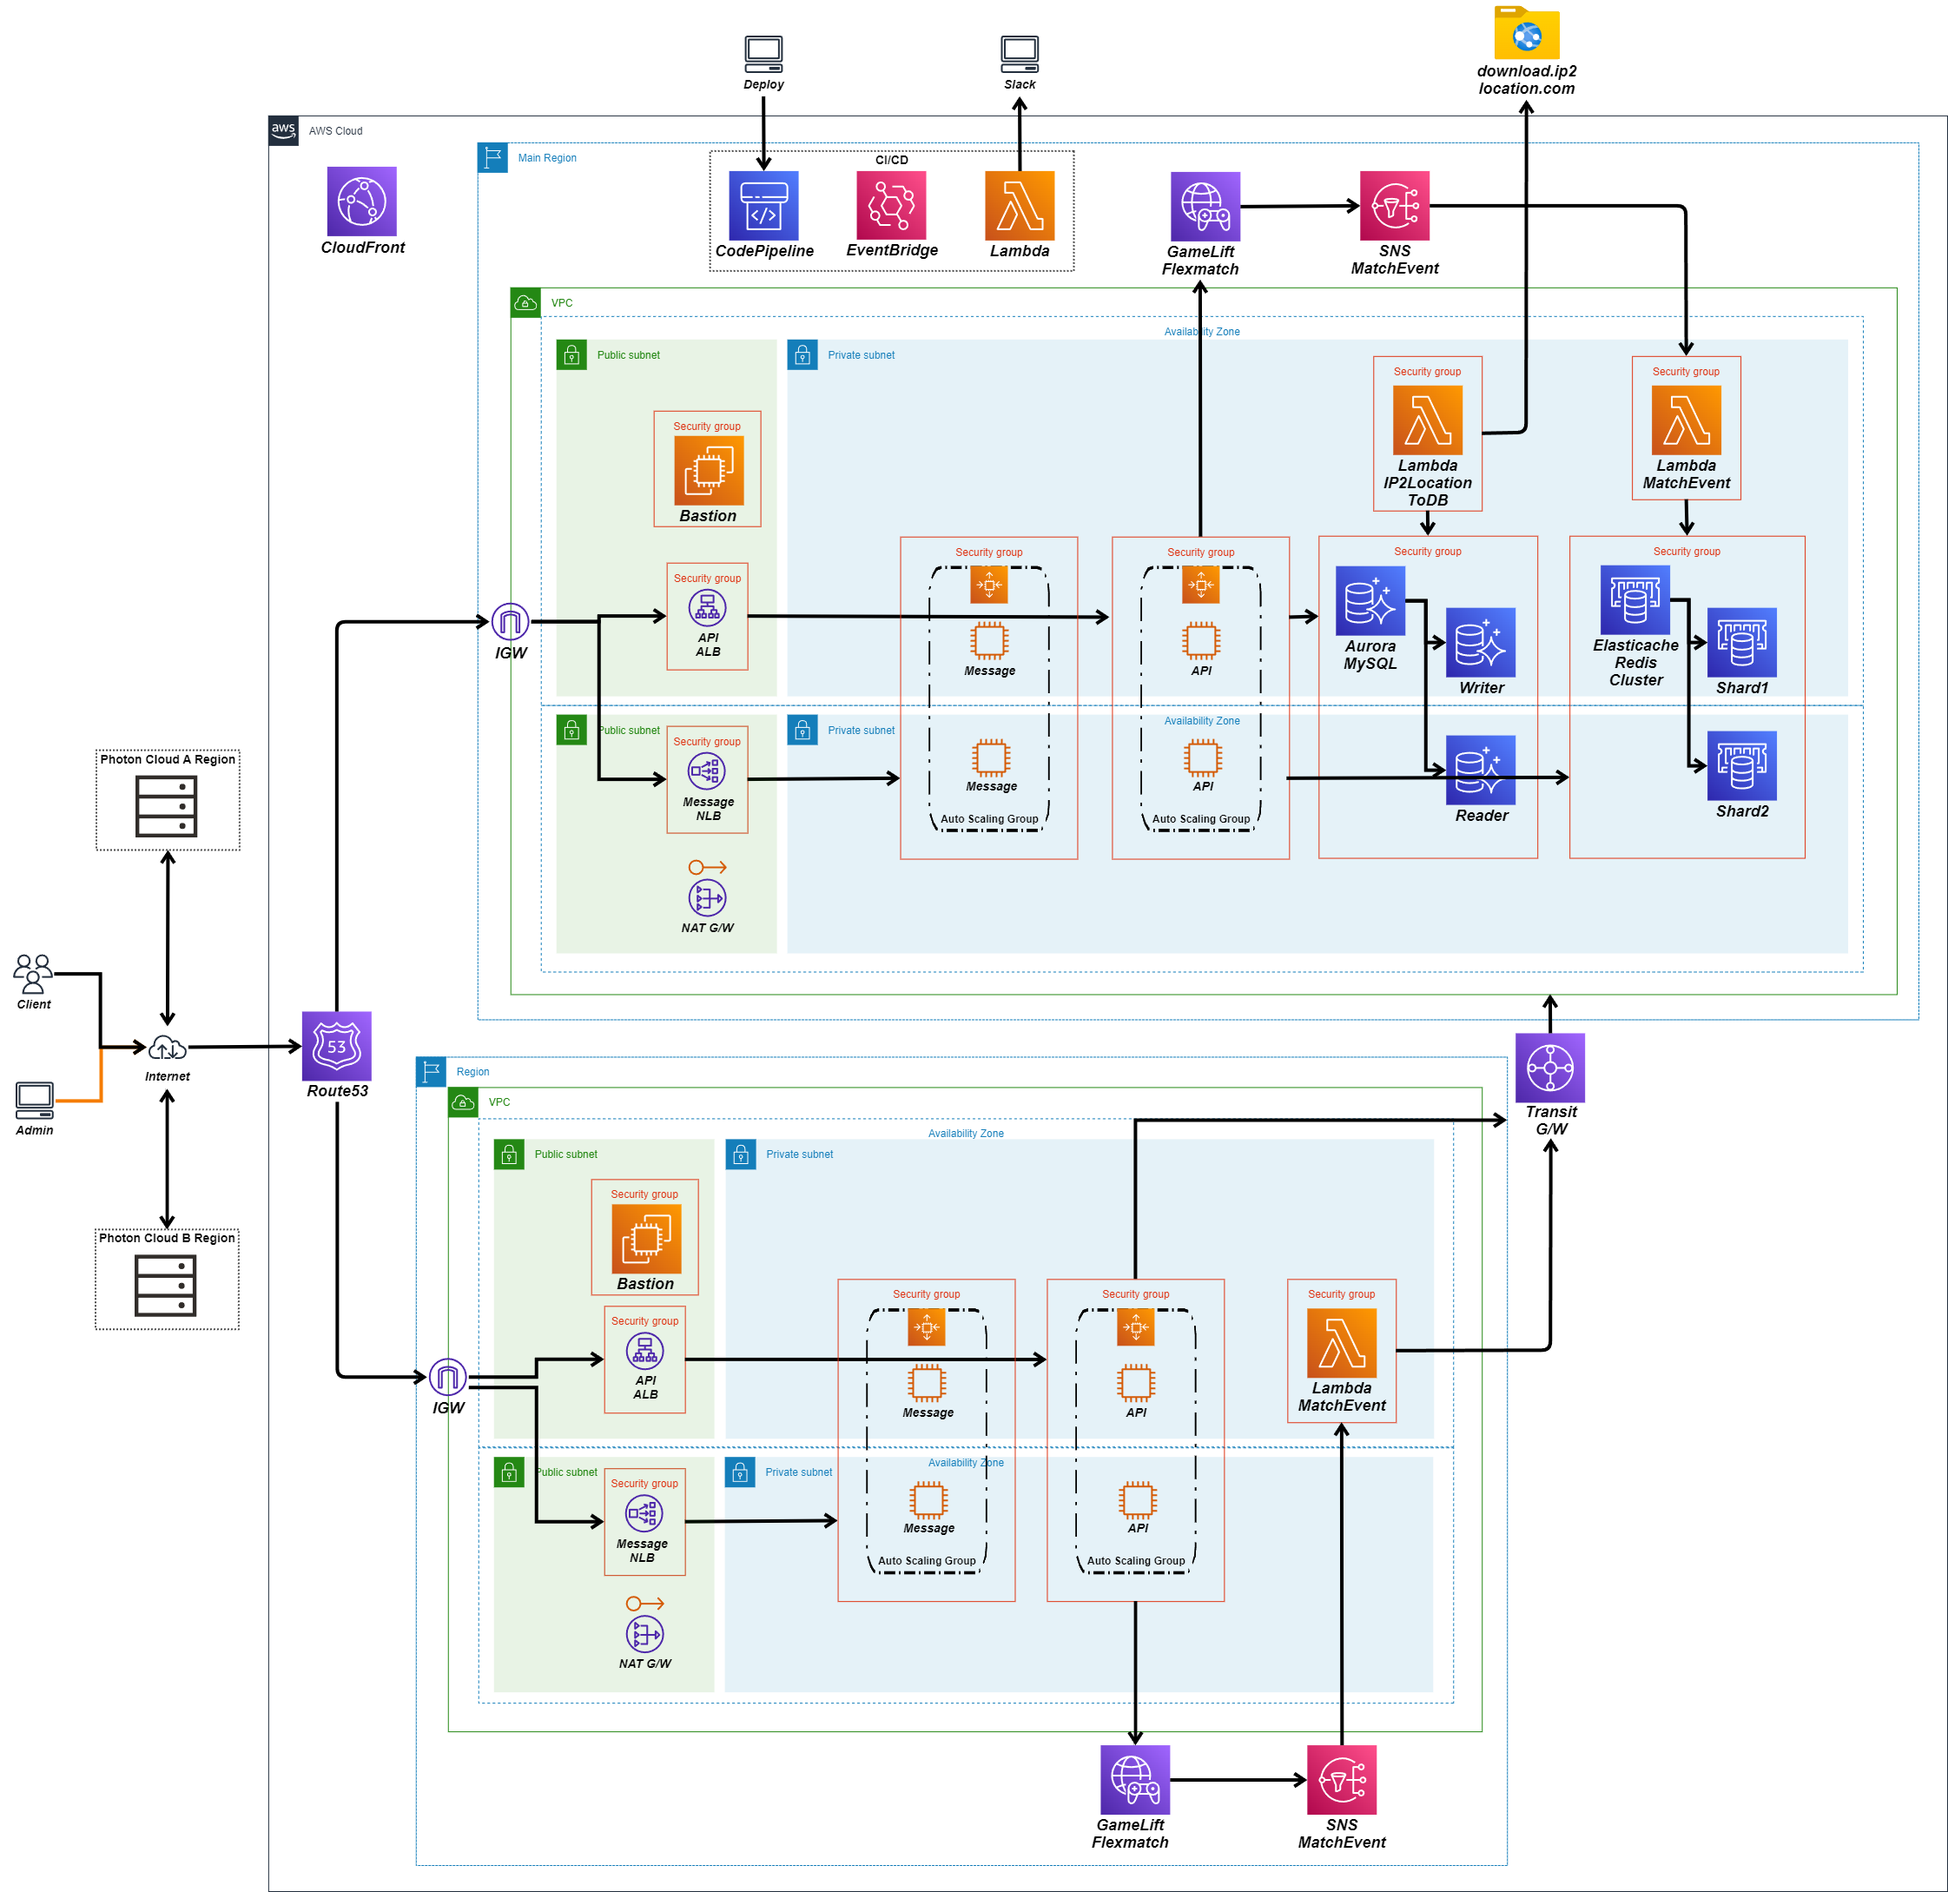
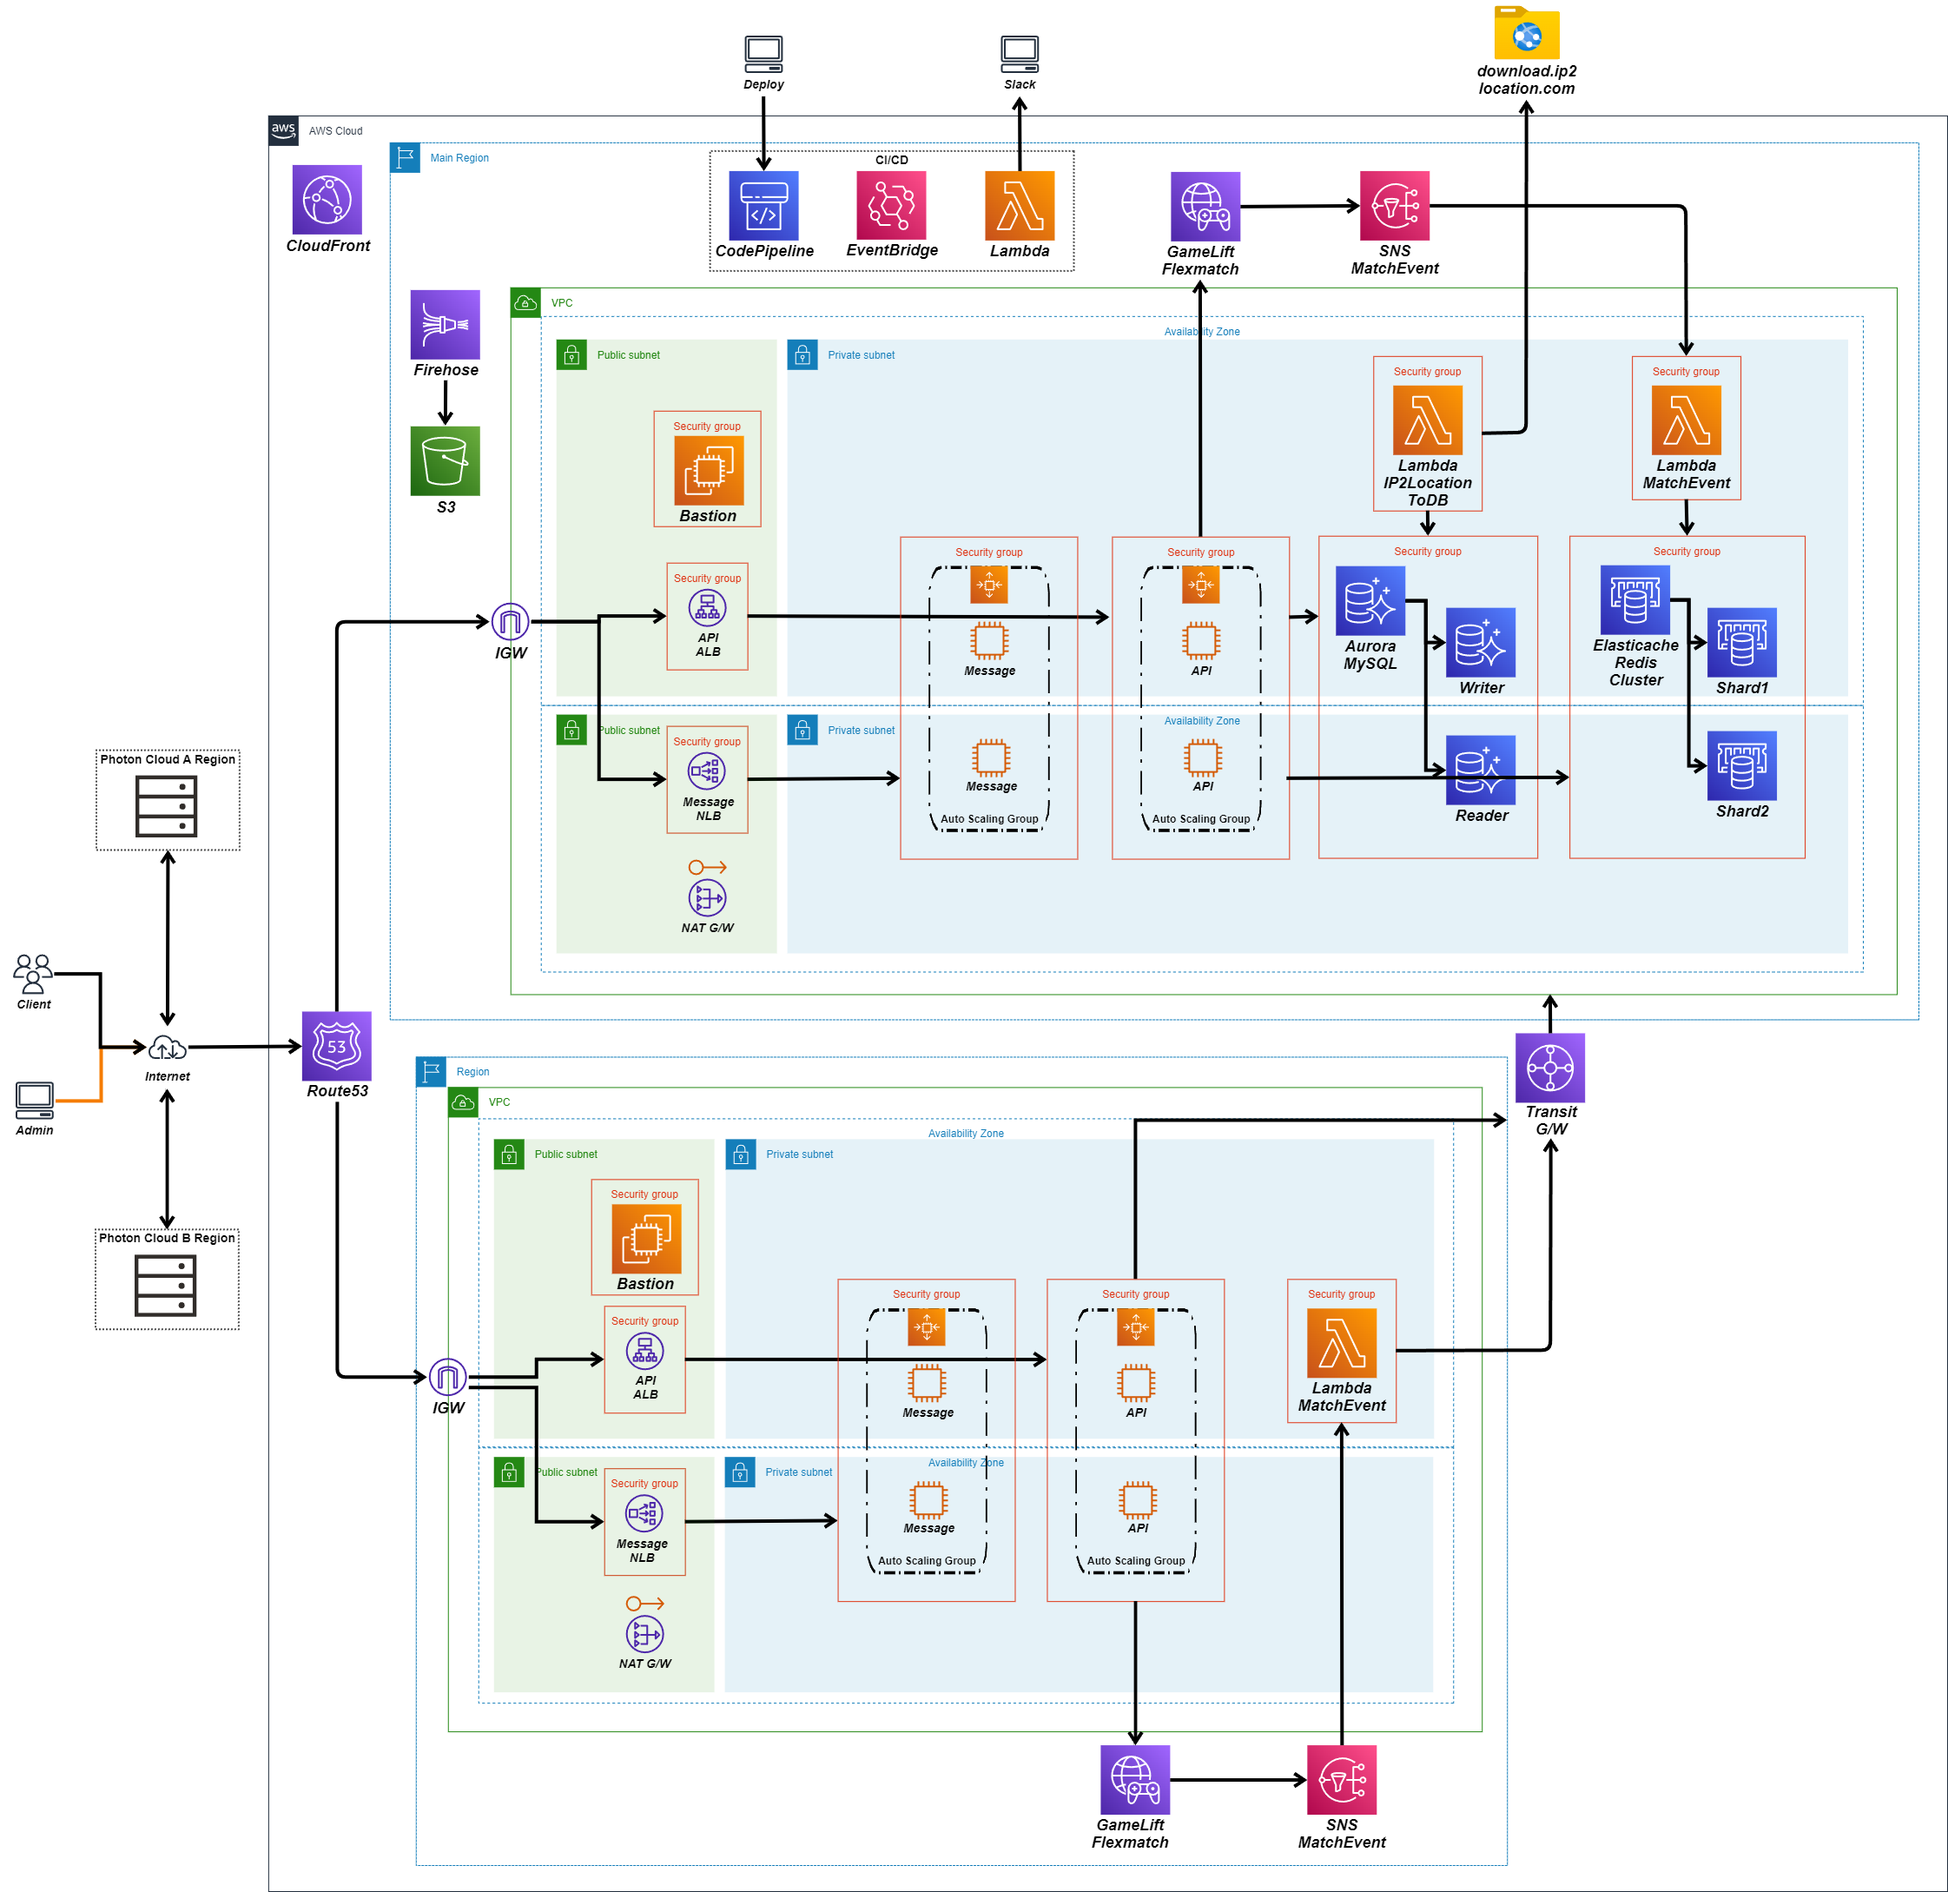
task

Changed region(s): [[0.1248, 0.0624, 0.2809, 0.281]]

diff --git a/resume.html b/resume.html
@@ -99,11 +99,11 @@
                                             <td>2021.09 ~ 현재</td>
                                             <td>서버팀장</td>
                                         </tr>
-                                        <tr>
+                                        <!-- <tr>
                                             <td>(주)이꼬르</td>
                                             <td>2021.06 ~ 2021.09</td>
                                             <td>과장</td>
-                                        </tr>
+                                        </tr> -->
                                         <tr>
                                             <td>메가존클라우드(주)</td>
                                             <td>2020.11 ~ 2021.06</td>
@@ -115,15 +115,15 @@
                                             <td>공동대표</td>
                                         </tr>
                                         <tr>
-                                            <td>(주)와이디온라인</td>
-                                            <td>2014.07 ~ 2017.08</td>
+                                            <td>(주)와이디온라인<br>다야에듀테인먼트(주)</td>
+                                            <td>2013.11 ~ 2017.08</td>
                                             <td>개발팀장</td>
                                         </tr>
-                                        <tr>
+                                        <!-- <tr>
                                             <td>다야에듀테인먼트(주)</td>
                                             <td>2013.11 ~ 2014.06</td>
                                             <td>대리</td>
-                                        </tr>
+                                        </tr> -->
                                         <tr>
                                             <td>(주)연합인포맥스</td>
                                             <td>2011.03 ~ 2013.08</td>
@@ -166,7 +166,7 @@
                                     <ui>
                                         <li>ASP.NET Core 컨트롤러와 C#언어를 사용하여 Out Game Playing의 대부분을 포함한 로그인, 배틀 결과, 친구, 팀, 클랜, 퀘스트 관련 API등을 수행하는 서버를 개발하였습니다.</li>
                                         <li>API 개발 시, API에 필요한 로직 코드를 <a target="_blank" href="https://nunit.org/">NUnit</a>을 사용하여 예외를 검증하는 테스트 코드를 만들며 구현하였습니다.</li>
-                                        <li>동시성 제어가 필요한 로직에는 MySQL FOR UPDATE를 사용하여 일관성 처리를 하였습니다.</li>
+                                        <!-- <li>동시성 제어가 필요한 로직에는 MySQL FOR UPDATE를 사용하여 일관성 처리를 하였습니다.</li> -->
                                     </ui>
                                     
                                 </p>
@@ -190,13 +190,13 @@
                                         <li>데이터 저장소는 MySQL, Redis, OpenSearch(로그)를 사용 중입니다.</li>
                                         <li>데이터베이스 버저닝 툴인
                                             <a target="_blank" href="https://flywaydb.org/">Flyway</a>
-                                            를 사용하였습니다.</li>
+                                            를 사용하여 서버들 뿐 아니라 개발자 간 DB 스키마를 일관성 있게 버전 관리할 수 있도록 하였습니다.</li>
                                         <li>프로토콜은 클라이언트(Unity), 서버 모두 C# 언어인점에 따라
                                             <a target="_blank" href="https://github.com/neuecc/MessagePack-CSharp/">MessagePack for C#</a>
                                             를 채택하였습니다.</li>
-                                        <li>문자열의 효율적 메모리 할당을 위해 
+                                        <!-- <li>문자열의 효율적 메모리 할당을 위해 
                                             <a target="_blank" href="https://github.com/Cysharp/ZString">ZString</a>
-                                            을 사용하였습니다.</li>
+                                            을 사용하였습니다.</li> -->
                                         <li>Docker, docker-compose를 사용하여 로컬, 개발 서버 환경을 맞췄고 이를 통하여 누구나 로컬 환경을 손쉽게 구성하여 테스트할 수 있게 하였습니다. </li>
                                     </ui>
                                 </p>
@@ -237,6 +237,7 @@
                                                 <li>Message 서버는 AWS NLB로 로드 밸런싱을 하되 TCP 서버로 Client와의 연결이 stateful 해야하므로 NLB Sticky Session을 활용합니다.</li>
                                                 <li>Redis는 사용 용도 별로 End Point를 분산하고 각 End Point는 AWS ElastiCache Redis Cluster를 사용하여 Key접근을 추가로 분산합니다.</li>
                                                 <li>DB는 AWS Aurora MySQL Cluster 구조로 읽기만 이루어지는 작업에서는 최대한 Reader Node로 접근하여 분산합니다. 또한 고성능의 Aurora RDS를 최대한 Scale Up 하여 운용하고 필요한 상황이 온다면 PlayerID를 통해 샤딩키를 추출하는 방식으로 레인지 DB샤딩을 이용합니다. </li>
+                                                <li>프로젝트에서 필요한 모니터링 소스, 로그 소스는 모두 Kinesis Firehose를 통해 S3에 저장하여 모니터링 가용성을 챙기고 데이터 저장 비용도 아낄 수 있게 설계하였습니다.</li>
                                             </ui>
                                         </p>
                                     </section>
@@ -251,7 +252,7 @@
                         </div>
                     </div>
                 </div>
-                <div class="company">
+                <!-- <div class="company">
                     <div class="company-head">
                         <div class="company-dt">2021년 6월 ~ 2021년 9월</div>
                         <div class="company-region">관악, 서울</div>
@@ -277,7 +278,7 @@
                             </div>
                         </div>
                     </div>
-                </div>
+                </div> -->
                 <div class="company">
                     <div class="company-head">
                         <div class="company-dt">2020년 11월 ~ 2021년 6월</div>
@@ -342,10 +343,10 @@
                                         <li>Matching 서버는 TCP 소켓 기반 서버이며 <code>Redis Sorted Set</code>을 이용하여 비슷한 Point 범위 내에서 랜덤 선택하여 매칭하였습니다.</li>
                                         <li>Matchmaking 시간이 길어지면 <code>Redis Sorted Set</code>의 Point 범위를 확장하는 방식을 사용하였습니다. </li>
                                         <li>코드 병합 전 Pull Request, Review 과정을 통해 프로젝트 완성도를 높였습니다.</li>
-                                        <li>
+                                        <!-- <li>
                                             기타 사용 라이브러리 : <a target="_blank" href="https://github.com/neuecc/MessagePack-CSharp/">MessagePack for C#</a>,
                                             <a target="_blank" href="https://flywaydb.org/">Flyway</a>
-                                        </li>
+                                        </li> -->
                                     </ui>
                                 </p>
                             </div>
@@ -390,15 +391,19 @@
                 </div>
                 <div class="company">
                     <div class="company-head">
-                        <div class="company-dt">2014년 7월 ~ 2017년 8월</div>
+                        <div class="company-dt">2013년 11월 ~ 2017년 8월</div>
                         <div class="company-region">청담, 서울</div>
                         <div class="company-name">와이디온라인</div>
+                        <div class="company-region">판교, 성남</div>
+                        <div class="company-name">다야에듀테인먼트</div>
                     </div>
                     <div class="company-body">
                         <div class="company-what">
                             <p>
                                 와이디온라인은 갓 오브 하이스쿨, 오디션, 프리스톤테일, 미르의 전설2,3 등의 게임을 직접 개발, 퍼블리싱하였습니다. <br>
-                                현재는 아이톡시로 사명이 변경되었습니다.
+                                현재는 아이톡시로 사명이 변경되었습니다.<br>
+                                다야에듀테인먼트는 웹툰 IP 기반 최초, 유일 성공작인 갓 오브 하이스쿨을 개발한 회사입니다. <br>
+                                이후 와이디온라인과 퍼블리싱 계약 이후 사내 스튜디오로 들어가게 됩니다.
                             </p>
                         </div>
                         <div class="mywork">
@@ -443,7 +448,7 @@
                         </div>
                     </div>
                 </div>
-                <div class="company">
+                <!-- <div class="company">
                     <div class="company-head">
                         <div class="company-dt">2013년 11월 ~ 2014년 6월</div>
                         <div class="company-region">판교, 성남</div>
@@ -467,7 +472,7 @@
                             </div>
                         </div>
                     </div>
-                </div>
+                </div> -->
                 <div class="company">
                     <div class="company-head">
                         <div class="company-dt">2011년 3월 ~ 2013년 8월</div>
